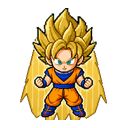
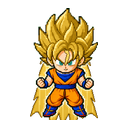
fix(pet): eliminate hair leakage, ghost outlines, and distorted lying frames across all Goku form sprites

diff --git a/scripts/build-goku-forms.py b/scripts/build-goku-forms.py
@@ -185,32 +185,95 @@ def classify(cell):
     hue, light, sat = hls_planes(rgb)
     hue = hue * 360
     opaque = alpha > 96
-    hair = opaque & (sat > 0.35) & (light > 0.28) & (hue >= 37.5) & (hue <= 68)
-    hair = drop_small_components(hair, 10)
-    hair = near_largest(hair, 10)
-    # Hair shadows share the gi's orange hue, so grow into them only from lit hair,
-    # a few pixels at a time; the dark outline between hair and gi stops the growth.
-    shadow = opaque & (sat > 0.5) & (hue >= 25) & (hue < 37.5) & (light > 0.3) & (light < 0.56)
-    for _ in range(6):
-        hair = hair | (shadow & dilate(hair, 1))
+
+    # 1. Precise Iris (Teal / Emerald in source SSJ)
     iris = opaque & (sat > 0.25) & (hue >= 140) & (hue <= 205) & (light > 0.12) & (light < 0.8)
-    skin = opaque & ~hair & (hue >= 8) & (hue <= 36) & (light > 0.62) & (sat > 0.25)
+
+    # 2. Skin (peach/tan): filter isolated hair highlights with drop_small_components
+    skin_raw = opaque & ~iris & (hue >= 8) & (hue <= 39) & (light > 0.58) & (sat > 0.20) & (rgb[:, :, 2] > 75)
+    skin = drop_small_components(skin_raw, 25)
+
+    # 3. Blue accessories (belt, wristbands, boots, undershirt)
+    blue = drop_small_components(opaque & (sat > 0.35) & (light > 0.15) & (hue >= 200) & (hue <= 255), 10)
+
+    # 4. Detect lying frames (Row 5 col 4: head horizontal on ground)
+    cys, cxs = np.nonzero(opaque)
+    if len(cys) == 0:
+        return {
+            "hair": np.zeros_like(opaque), "iris": np.zeros_like(opaque), "skin": np.zeros_like(opaque),
+            "blue": np.zeros_like(opaque), "outline": np.zeros_like(opaque), "light": light, "opaque": opaque,
+            "is_lying": False,
+        }
+    is_lying = (cys.min() > 12) and (cys.max() - cys.min() < 180) and (cxs.max() - cxs.min() > 130)
+
+    if is_lying:
+        dogi = opaque & (np.arange(cell.shape[0])[:, None] >= 115) & (np.arange(cell.shape[1])[None, :] >= 135) & (rgb[:, :, 0] > 140) & (hue < 32) & ~skin & ~blue
+        hair = opaque & ~skin & ~blue & ~dogi
+    else:
+        # Dogi strictly below collar/chest straps (y >= 99)
+        gi_raw = opaque & (hue >= 15) & (hue <= 42) & (sat > 0.40) & (light > 0.25) & (np.arange(cell.shape[0])[:, None] >= 99) & ~skin & ~blue
+        gi = drop_small_components(gi_raw, 20)
+
+        gold = opaque & (sat > 0.30) & (light > 0.26) & (hue >= 35.0) & (hue <= 72.0)
+        highlight = opaque & (light > 0.65) & (sat > 0.04) & (hue >= 25.0) & (hue <= 75.0) & (rgb[:, :, 2] < 210) & ~skin
+        shadow = opaque & (sat > 0.40) & (hue >= 22.0) & (hue < 37.0) & (light > 0.16) & (light < 0.58) & (rgb[:, :, 2] < 70)
+
+        hair_candidates = (gold | highlight | shadow) & ~skin & ~blue & ~iris & ~gi
+
+        top_y = cys.min()
+        seed = hair_candidates & (np.arange(cell.shape[0])[:, None] <= top_y + 45)
+        seen = np.zeros_like(hair_candidates)
+        stack = list(zip(*np.nonzero(seed)))
+        for y, x in stack:
+            seen[y, x] = True
+        h, w = hair_candidates.shape
+        while stack:
+            cy, cx = stack.pop()
+            for ny, nx in ((cy + 1, cx), (cy - 1, cx), (cy, cx + 1), (cy, cx - 1)):
+                if 0 <= ny < h and 0 <= nx < w and hair_candidates[ny, nx] and not seen[ny, nx]:
+                    seen[ny, nx] = True
+                    stack.append((ny, nx))
+        for _ in range(6):
+            grown = seen | (hair_candidates & dilate(seen, 6))
+            if (grown == seen).all():
+                break
+            seen = grown
+
+        head_shadow = opaque & (np.arange(cell.shape[0])[:, None] <= 104) & ~skin & ~blue & ~iris & (hue >= 22) & (hue <= 75) & (sat > 0.20)
+        for _ in range(4):
+            grown = seen | (head_shadow & dilate(seen, 2))
+            if (grown == seen).all():
+                break
+            seen = grown
+        hair = seen
+
     dark = opaque & (light < 0.3)
-    hair_outline = dark & dilate(hair, 1) & ~iris
-    blue = drop_small_components(opaque & (sat > 0.4) & (light > 0.18) & (hue >= 200) & (hue <= 250), 12)
-    return {"hair": hair, "iris": iris, "skin": skin, "blue": blue, "outline": hair_outline, "light": light, "opaque": opaque}
+    hair_outline = dark & dilate(hair, 1) & ~iris & ~skin & ~blue
+    return {
+        "hair": hair, "iris": iris, "skin": skin, "blue": blue,
+        "outline": hair_outline, "light": light, "opaque": opaque,
+        "is_lying": is_lying,
+    }
 
 
 def head_metrics(cls):
     ys, xs = np.nonzero(cls["hair"])
     cx = float(np.median(xs))
     hair_top = int(ys.min())
-    skin_ys, skin_xs = np.nonzero(cls["skin"])
-    near = (np.abs(skin_xs - cx) <= 22) & (skin_ys > hair_top + 6)
-    if near.any():
-        hairline = int(skin_ys[near].min())
+
+    if cls.get("is_lying", False):
+        hairline = int(hair_top + (ys.max() - hair_top) * 0.75)
+        face_cx = cx
     else:
-        hairline = int(hair_top + (ys.max() - hair_top) * 0.6)
+        skin_ys, skin_xs = np.nonzero(cls["skin"])
+        near = (np.abs(skin_xs - cx) <= 22) & (skin_ys > hair_top + 10)
+        if near.any():
+            hairline = int(skin_ys[near].min())
+            face_cx = float(skin_xs[near].mean())
+        else:
+            hairline = int(hair_top + (ys.max() - hair_top) * 0.6)
+            face_cx = cx
+
     body_ys, body_xs = np.nonzero(cls["opaque"] & ~cls["hair"])
     return {
         "cx": cx,
@@ -218,26 +281,27 @@ def head_metrics(cls):
         "hair_top": hair_top,
         "hair_w": int(xs.max() - xs.min() + 1),
         "head": (float(xs.mean()), float(ys.mean())),
-        "face_x": float(skin_xs[near].mean()) if near.any() else cx,
+        "face_x": face_cx,
         "body": (float(body_xs.mean()), float(body_ys.mean())) if len(body_xs) else (cx, hairline + 60),
         "bottom": int(np.nonzero(cls["opaque"])[0].max()),
+        "is_lying": cls.get("is_lying", False),
     }
 
 
 def reshape_top_hair(cell, cls, m, vscale, hscale):
     """Scale the hair above the hairline about (cx, hairline); returns the new cell + hair mask."""
-    if vscale == 1.0 and hscale == 1.0:
+    if (vscale == 1.0 and hscale == 1.0) or cls.get("is_lying", False):
         return cell, cls["hair"].copy()
     h, w = cls["hair"].shape
     top = np.zeros((h, w), dtype=bool)
     top[: m["hairline"], :] = True
-    # Everything around the hair above the hairline moves with it, including the
-    # antialiased outer outline, so no ghost of the old silhouette is left behind.
+    side_hair = (np.arange(h)[:, None] >= m["hairline"]) & (np.arange(h)[:, None] <= 104) & (np.abs(np.arange(w)[None, :] - m["cx"]) > 16) & cls["hair"]
+
     keep = dilate(cls["skin"] | cls["blue"], 2)
-    movable = top & dilate(cls["hair"], 8) & (cell[:, :, 3] > 0) & ~keep & ~cls["iris"]
+    movable = (top & dilate(cls["hair"], 8) & (cell[:, :, 3] > 0) & ~keep & ~cls["iris"]) | side_hair
     out = cell.copy()
     out[movable] = 0
-    hair = cls["hair"] & ~top
+    hair = cls["hair"] & ~movable
     cx, line = m["cx"], m["hairline"]
     for y in range(0, line):
         sy = int(round(line - (line - y) / vscale))
@@ -250,6 +314,9 @@ def reshape_top_hair(cell, cls, m, vscale, hscale):
             if out[y, x, 3] == 0:
                 out[y, x] = cell[sy, sx]
                 hair[y, x] = cls["hair"][sy, sx]
+
+    out[side_hair] = cell[side_hair]
+    hair[side_hair] = cls["hair"][side_hair]
     return out, hair
 
 
@@ -282,8 +349,8 @@ def ssj3_mane(shape, m):
     norm = math.hypot(dx, dy) or 1.0
     dx, dy = dx / norm, dy / norm
     nx, ny = -dy, dx
-    width = m["hair_w"] * 0.92
-    length = max(82.0, (m["bottom"] - m["hair_top"]) * 0.88)
+    width = m["hair_w"] * 0.76
+    length = max(78.0, (m["bottom"] - m["hair_top"]) * 0.86)
     ox, oy = hx, hy
 
     def at(along, across):
@@ -292,9 +359,9 @@ def ssj3_mane(shape, m):
     # Clockwise outline: one flank with outward spikes, a row of tips, the other flank.
     left = [at(0, -width * 0.5)]
     # Flank locks point down and only slightly outward, like hair falling down the back.
-    for k, a in enumerate((0.2, 0.4, 0.6)):
-        spread = width * (0.52 + 0.08 * k)
-        left += [at(length * (a - 0.08), -spread), at(length * (a + 0.09), -spread - 7), at(length * a, -spread + 3)]
+    for k, a in enumerate((0.22, 0.42, 0.62, 0.80)):
+        spread = width * (0.46 + 0.06 * k)
+        left += [at(length * (a - 0.07), -spread), at(length * (a + 0.05), -spread - 6), at(length * a, -spread + 3)]
     tips = []
     span = width * 1.1
     count = 5
@@ -408,6 +475,19 @@ def build_cell(cell, form):
         rim = dilate(mane | (out[:, :, 3] > 0), 1) & (out[:, :, 3] == 0) & dilate(behind, 1)
         out[rim, :3] = hex_rgb(form["outline"])
         out[rim, 3] = 255
+
+        # Add the iconic SS3 curved front bang across the forehead
+        cx, line = int(m["cx"]), int(m["hairline"])
+        bang_pts = [
+            (cx - 2, line - 2), (cx + 3, line - 1), (cx + 5, line + 7), (cx + 3, line + 16),
+            (cx, line + 22), (cx - 2, line + 26), (cx - 1, line + 15), (cx + 2, line + 5), (cx - 2, line + 2)
+        ]
+        bang_mask = draw_polygon_mask(hair.shape, bang_pts)
+        out[bang_mask, :3] = hair_rgb(np.full(hair.shape, 0.75))[bang_mask]
+        out[bang_mask, 3] = 255
+        bang_edge = dilate(bang_mask, 1) & ~bang_mask
+        out[bang_edge, :3] = hex_rgb(form["outline"])
+        out[bang_edge, 3] = 255
     return out
 
 
